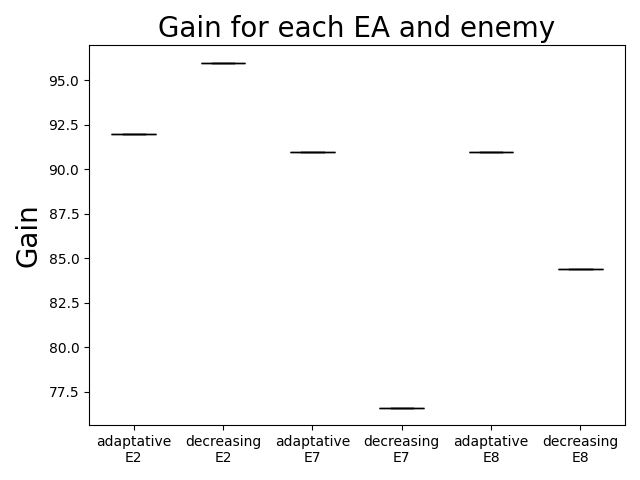
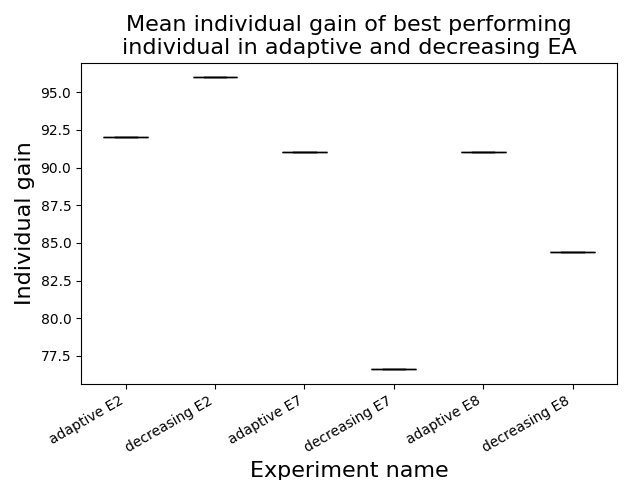
unify fitness graph + small fixes

diff --git a/results_ass1.py b/results_ass1.py
@@ -21,81 +21,104 @@ def read_stats(base_dir: str, prefix: str) -> dict:
                         print(e)
     return stats
 
-
-def plot_stats(stats: dict, enemy: int):
-
-    print("TEST")
-
+def plot_stats(stats_adaptative: dict, stats_decreasing: dict, enemy: int):
+    
     save_path = "results/plots/"
     if not os.path.exists(save_path):
         os.makedirs(save_path)
 
-    all_best_fit=[]
-    all_mean_fit=[]
-    all_median_prob=[]
+    # adaptive EA data
+    all_best_fit_ad = []
+    all_mean_fit_ad = []
+    all_median_prob_ad = []
 
-    for _, df in stats.items():
-        all_best_fit.append(df['best_fit'])
-        all_mean_fit.append(df['mean_fit'])
+    for _, df in stats_adaptative.items():
+        all_best_fit_ad.append(df['best_fit'])
+        all_mean_fit_ad.append(df['mean_fit'])
         if 'median_prob' in df.columns:
-            all_median_prob.append(df['median_prob'] * 100)
+            all_median_prob_ad.append(df['median_prob'] * 100)
         elif 'prob' in df.columns:
-            all_median_prob.append(df['prob'] * 100)
+            all_median_prob_ad.append(df['prob'] * 100)
         else:
             raise Exception("whoops")
-    
-    best_fit_df = pd.DataFrame(all_best_fit)
-    mean_fit_df = pd.DataFrame(all_mean_fit)
-    median_prob_df = pd.DataFrame(all_median_prob)
 
-    avg_best_fit = best_fit_df.mean(axis=0)
-    avg_mean_fit = mean_fit_df.mean(axis=0)
-    avg_median_prob = median_prob_df.mean(axis=0)
+    best_fit_df_ad = pd.DataFrame(all_best_fit_ad)
+    mean_fit_df_ad = pd.DataFrame(all_mean_fit_ad)
+    median_prob_df_ad = pd.DataFrame(all_median_prob_ad)
 
-    std_best_fit = best_fit_df.std(axis=0)
-    std_mean_fit = mean_fit_df.std(axis=0)
-    std_median_prob = median_prob_df.std(axis=0)
+    avg_best_fit_ad = best_fit_df_ad.mean(axis=0)
+    avg_mean_fit_ad = mean_fit_df_ad.mean(axis=0)
+    avg_median_prob_ad = median_prob_df_ad.mean(axis=0)
 
-    generations = range(len(avg_best_fit))  # all experiments should have the same number of generations
+    std_best_fit_ad = best_fit_df_ad.std(axis=0)
+    std_mean_fit_ad = mean_fit_df_ad.std(axis=0)
+    std_median_prob_ad = median_prob_df_ad.std(axis=0)
+    generations = range(len(avg_best_fit_ad))
+
+    # decreasing EA data
+    all_best_fit_de = []
+    all_mean_fit_de = []
+    all_median_prob_de = []
+
+    for _, df in stats_decreasing.items():
+        all_best_fit_de.append(df['best_fit'])
+        all_mean_fit_de.append(df['mean_fit'])
+        if 'median_prob' in df.columns:
+            all_median_prob_de.append(df['median_prob'] * 100)
+        elif 'prob' in df.columns:
+            all_median_prob_de.append(df['prob'] * 100)
+        else:
+            raise Exception("whoops")
+
+    best_fit_df_de = pd.DataFrame(all_best_fit_de)
+    mean_fit_df_de = pd.DataFrame(all_mean_fit_de)
+    median_prob_df_de = pd.DataFrame(all_median_prob_de)
+
+    avg_best_fit_de = best_fit_df_de.mean(axis=0)
+    avg_mean_fit_de = mean_fit_df_de.mean(axis=0)
+    avg_median_prob_de = median_prob_df_de.mean(axis=0)
+
+    std_best_fit_de = best_fit_df_de.std(axis=0)
+    std_mean_fit_de = mean_fit_df_de.std(axis=0)
+    std_median_prob_de = median_prob_df_de.std(axis=0)
 
     def plot_plot():
-
         fig, ax1 = plt.subplots(figsize=(10, 6))
-
-        ax1.plot(generations, avg_best_fit, label='Av. Best Fitness', color='blue', lw=1)
-        ax1.fill_between(generations, avg_best_fit - std_best_fit, avg_best_fit + std_best_fit, color='blue', alpha=0.2)
-        ax1.plot(generations, avg_mean_fit, label='Av. Mean Fitness', color='green')
-        ax1.fill_between(generations, avg_mean_fit - std_mean_fit, avg_mean_fit + std_mean_fit, color='green', alpha=0.2)
-        ax1.set_xlabel('Generation', fontsize=20)
-        ax1.set_ylabel('Fitness', fontsize=20)
-
         ax2 = ax1.twinx()
-        ax2.plot(generations, avg_median_prob, label='Av. Median Probability', color='red', lw=1)
-        ax2.fill_between(generations, avg_median_prob - std_median_prob, avg_median_prob + std_median_prob, color='red', alpha=0.2)
-        ax2.set_ylabel("Mutation Probability (%)", fontsize=20)
-        ax2.set_ylim(ax1.get_ylim())
+        ax1.set_xlabel('Generation', fontsize=16)
+        ax1.set_ylabel('Fitness', fontsize=16)
+        ax2.set_ylabel("Mutation probability (%)", fontsize=16)
+        fig.suptitle(f'Average fitness in a EA run for E{enemy}', fontsize=18)
 
-        fig.suptitle(f'Average fitness in 10 runs of EA1 for Enemy {enemy}', fontsize=20)
+        # adaptative
+        ax1.plot(generations, avg_best_fit_ad, label='best fitness adaptive', color='blue', lw=1)
+        ax1.fill_between(generations, avg_best_fit_ad - std_best_fit_ad, avg_best_fit_ad + std_best_fit_ad, color='blue', alpha=0.2)
+        ax1.plot(generations, avg_mean_fit_ad, label='mean fitness adaptive', color='green', lw=1)
+        ax1.fill_between(generations, avg_mean_fit_ad - std_mean_fit_ad, avg_mean_fit_ad + std_mean_fit_ad, color='green', alpha=0.2)
+        ax2.plot(generations, avg_median_prob_ad, label='median probability Adaptive', color='red', lw=1)
+        ax2.fill_between(generations, avg_median_prob_ad - std_median_prob_ad, avg_median_prob_ad + std_median_prob_ad, color='red', alpha=0.2)
+
+        # decreasing
+        ax1.plot(generations, avg_best_fit_de, label='best fitness decreasing', color='blue', lw=1, linestyle='--')
+        ax1.fill_between(generations, avg_best_fit_de - std_best_fit_de, avg_best_fit_de + std_best_fit_de, color='blue', alpha=0.2)
+        ax1.plot(generations, avg_mean_fit_de, label='mean fitness decreasing', color='green', lw=1, linestyle='--')
+        ax1.fill_between(generations, avg_mean_fit_de - std_mean_fit_de, avg_mean_fit_de + std_mean_fit_de, color='green', alpha=0.2)
+        ax2.plot(generations, avg_median_prob_de, label='median probability decreasing', color='red', lw=1, linestyle='--')
+        ax2.fill_between(generations, avg_median_prob_de - std_median_prob_de, avg_median_prob_de + std_median_prob_de, color='red', alpha=0.2)
+
         fig.autofmt_xdate()
-
         fig.legend(
-            loc='lower left', bbox_to_anchor=(0.55, 0.255),
-            fontsize=14,
+            loc='lower left', bbox_to_anchor=(0.56, 0.255),
+            fontsize=13,
             markerscale=2,
-            # handlelength=3,
-            # handleheight=2, #legend
-            # borderpad=1.5, # Padding between the legend border and content
-            # frameon=False,
-            # shadow=True,
-            # bbox_transform=ax1.transAxes,
             framealpha=1
         )
 
         ax1.grid(True)
-        # plt.grid(True)
+        ax2.set_ylim(ax1.get_ylim())
         fig.tight_layout()
 
-        plot_name = os.path.basename(next(iter(stats)))[:-2]
+        plot_name = f"enemy-{enemy}"
         plt.savefig(os.path.join(save_path, plot_name))
         print("saved " + plot_name)
 
@@ -171,18 +194,19 @@ def calculate_gain(ea_kind: str, enemies: list) -> dict:
             best_ind = np.array([float(line.strip()) for line in lines if line.strip()])
 
         gains_list = []
-        print(weights_file_path.split('/')[1], "\n\n\nn\n")
+        # print(weights_file_path.split('/')[1], "\n\n\nn\n")
 
         if weights_file_path.split('/')[1] == "adaptative_ea_bad":
             ea = adaptative_ea_bad.SpecializedEA(experiment_name, enemy)
         else:
             ea = decreasing_ea.SpecializedEA(experiment_name, enemy)
+        print(f"{ea_kind}, enemy: {enemy}\n",)
         for _ in range(runs):
             fitness, playerlife, enemylife, time = ea.env.play(pcont=best_ind)
             gains_list.append(playerlife - enemylife)
             print(ea.env.play(pcont=best_ind))
 
-        all_gains_dict[f"{weights_file_path.split('/')[1].replace('_ea', '').replace('_bad', '')}\nE{enemy}"] = gains_list
+        all_gains_dict[f"{weights_file_path.split('/')[1].replace('_ea', '').replace('_bad', '').replace('adaptative','adaptive')} E{enemy}"] = gains_list
         # ea=''
 
 
@@ -201,9 +225,10 @@ def save_box_plot(all_gains_dict: dict):
 
     print(len(colors))
 
-    _, ax = plt.subplots()
-    ax.set_ylabel('Gain', fontsize=20)
-    ax.set_title('Gain for each EA and enemy', fontsize=20)
+    fig, ax = plt.subplots()
+    ax.set_ylabel('Individual gain', fontsize=16)
+    ax.set_xlabel('Experiment name', fontsize=16)
+    ax.set_title('Mean individual gain of best performing\nindividual in adaptive and decreasing EA', fontsize=16)
 
 
     bplot = ax.boxplot(gains,
@@ -214,6 +239,8 @@ def save_box_plot(all_gains_dict: dict):
     for patch, color in zip(bplot['boxes'], colors):
         patch.set_facecolor(color)
     plt.tight_layout()
+    fig.autofmt_xdate()
+
 
     plt.savefig("results/plots/box-plot")
     print("saved box_plot")
@@ -236,8 +263,7 @@ if __name__ == "__main__":
         stats_decreasing = read_stats(dir_decreasing, f"{os.path.basename(dir_decreasing)}-{enemy}")
         print("OK")
 
-        plot_stats(stats_adaptative, enemy)
-        plot_stats(stats_decreasing, enemy)
+        plot_stats(stats_adaptative, stats_decreasing, enemy)
         print("OK")
 
         save_best_individual(stats_adaptative, experiment_name_adaptative)
